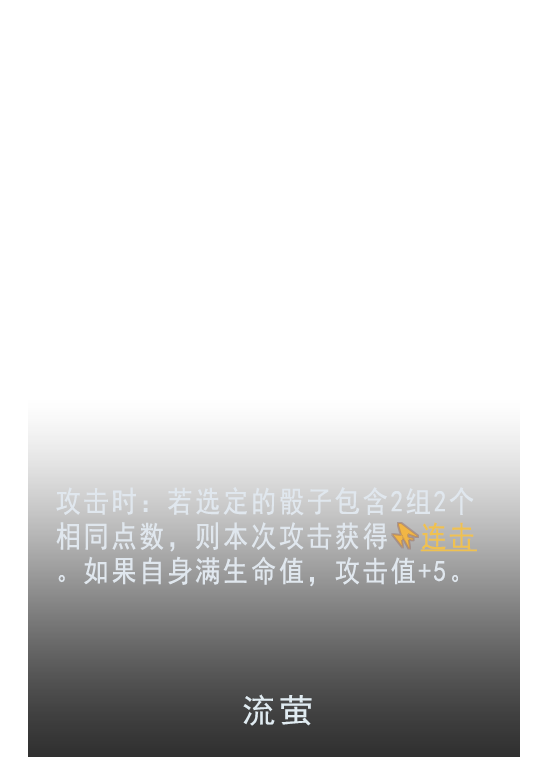
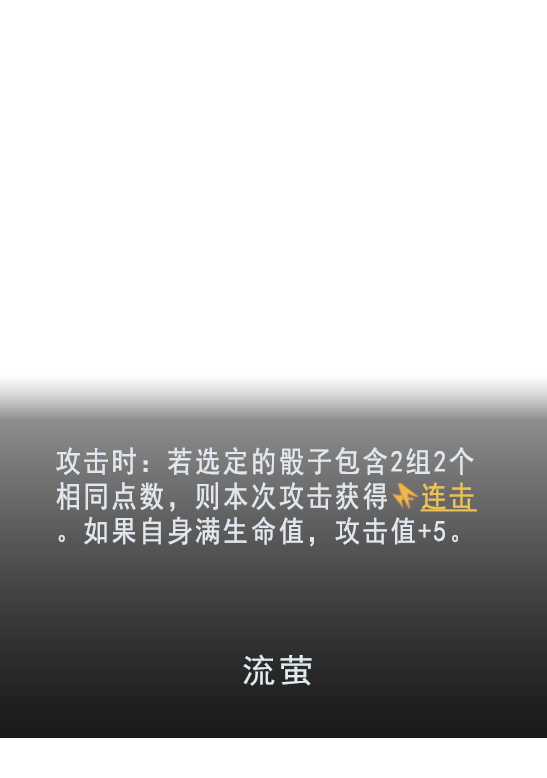
可用版本

diff --git a/gemini.html b/gemini.html
@@ -73,10 +73,15 @@
         const characterTexture = textureLoader.load('流萤.png');
         const frameMaskTexture = textureLoader.load('card-border-mask.png');
         const stencilMaskTexture = textureLoader.load('stencil-mask.png');
+        const descriptionTexture = textureLoader.load('描述.png');
+        const valueTexture = textureLoader.load('数值.png');
         bgTexture.colorSpace = THREE.SRGBColorSpace;
         characterTexture.colorSpace = THREE.SRGBColorSpace;
+        characterTexture.premultiplyAlpha = true;
         frameMaskTexture.colorSpace = THREE.NoColorSpace;
         stencilMaskTexture.colorSpace = THREE.NoColorSpace;
+        descriptionTexture.colorSpace = THREE.SRGBColorSpace;
+        valueTexture.colorSpace = THREE.SRGBColorSpace;
 
         const createFrameGradientTexture = () => {
             const canvas = document.createElement('canvas');
@@ -125,7 +130,7 @@
             texture.colorSpace = THREE.SRGBColorSpace;
             texture.wrapS = THREE.RepeatWrapping;
             texture.wrapT = THREE.RepeatWrapping;
-            texture.repeat.set(30, 40);
+            texture.repeat.set(20, 30);
             return texture;
         };
 
@@ -138,7 +143,7 @@
 
         const characterGroup = new THREE.Group();
         cardGroup.add(characterGroup);
-        characterGroup.scale.setScalar(1.06);
+        characterGroup.scale.setScalar(1.10);
 
         const characterPivot = new THREE.Group();
         characterGroup.add(characterPivot);
@@ -194,6 +199,9 @@
         const planeMaterial = new THREE.MeshBasicMaterial({
             map: characterTexture,
             transparent: true,
+            alphaTest: 0,
+            alphaToCoverage: true,
+            premultipliedAlpha: true,
             depthTest: true,
             depthWrite: true,
             ...stencilContentConfig // 应用模板规则
@@ -204,7 +212,9 @@
         characterPivot.add(characterPlane);
 
         characterPivot.position.y = -cardHeight * 0.5;
-        const baseTiltX = THREE.MathUtils.degToRad(10);
+        // 角色“初始前倾角”（静止时就会有的基础倾斜）
+        // 调大：更俯视；调小：更接近平视。
+        const baseTiltX = THREE.MathUtils.degToRad(7);
         characterPivot.rotation.x = baseTiltX;
 
         const frameMaterial = new THREE.ShaderMaterial({
@@ -229,7 +239,7 @@
                 varying vec2 vUv;
 
                 void main() {
-                    vec2 gradUv = (vUv / 3.0) + uBgOffset;
+                    vec2 gradUv = (vUv / 1.6) + uBgOffset;
                     gradUv = clamp(gradUv, vec2(0.0), vec2(1.0));
 
                     vec3 g1 = texture2D(uGradient, gradUv).rgb;
@@ -250,13 +260,43 @@
             `,
             transparent: true,
             depthTest: true,
-            depthWrite: true,
-            ...stencilContentConfig // 应用模板规则
+            depthWrite: false,
+            stencilWrite: false
         });
 
         const frameMesh = new THREE.Mesh(planeGeometry, frameMaterial);
         frameMesh.position.z = 0.22;
+        frameMesh.renderOrder = 120;
         cardGroup.add(frameMesh);
+
+        const descriptionMesh = new THREE.Mesh(
+            planeGeometry,
+            new THREE.MeshBasicMaterial({
+                map: descriptionTexture,
+                transparent: true,
+                depthTest: false,
+                depthWrite: false,
+                ...stencilContentConfig
+            })
+        );
+        descriptionMesh.position.z = 0.20;
+        descriptionMesh.renderOrder = 110;
+        cardGroup.add(descriptionMesh);
+
+        const valueMesh = new THREE.Mesh(
+            planeGeometry,
+            new THREE.MeshBasicMaterial({
+                map: valueTexture,
+                transparent: true,
+                depthTest: false,
+                depthWrite: false,
+                ...stencilContentConfig
+            })
+        );
+        valueMesh.position.z = 0.24;
+        valueMesh.scale.set(0.95, 0.95, 1);
+        valueMesh.renderOrder = 121;
+        cardGroup.add(valueMesh);
 
         const glareMesh = new THREE.Mesh(
             planeGeometry,
@@ -271,7 +311,7 @@
             })
         );
         glareMesh.position.z = 0.42;
-        glareMesh.renderOrder = 100;
+        glareMesh.renderOrder = 130;
         cardGroup.add(glareMesh);
 
         let targetCardRotX = 0;
@@ -284,9 +324,14 @@
             const nx = ((event.clientX - rect.left) / rect.width) * 2 - 1;
             const ny = ((event.clientY - rect.top) / rect.height) * 2 - 1;
 
+            // 左右交互方向映射（-nx 为反向，nx 为同向）
+            const interactionX = -nx;
+
+            // 鼠标驱动卡片旋转的“最大倾角”在这里的 10（度）
+            // X 对应上下，Y 对应左右
             targetCardRotX = THREE.MathUtils.degToRad(-ny * 10);
-            targetCardRotY = THREE.MathUtils.degToRad(nx * 10);
-            targetNX = nx;
+            targetCardRotY = THREE.MathUtils.degToRad(interactionX * 10);
+            targetNX = interactionX;
             targetNY = ny;
         });
 
@@ -306,9 +351,13 @@
         });
 
         const clock = new THREE.Clock();
+        // 与上面鼠标旋转保持一致：用于把当前旋转归一化到 [-1, 1]
+        // 若你把 mousemove 中的 10 改了，这里建议同步改成同样角度。
+        const maxCardTiltRad = THREE.MathUtils.degToRad(10);
         function animate() {
             const dt = Math.min(clock.getDelta(), 0.05);
             const smoothing = 1 - Math.exp(-8 * dt);
+            const charSmoothing = 1 - Math.exp(-12 * dt);
 
             cardGroup.rotation.x += (targetCardRotX - cardGroup.rotation.x) * smoothing;
             cardGroup.rotation.y += (targetCardRotY - cardGroup.rotation.y) * smoothing;
@@ -318,15 +367,35 @@
             bgMesh.position.x += (bgTargetX - bgMesh.position.x) * smoothing;
             bgMesh.position.y += (bgTargetY - bgMesh.position.y) * smoothing;
 
-            const charTargetX = targetNX * 0.2;
-            const charTargetY = -targetNY * 0.14;
-            characterGroup.position.x += (charTargetX - characterGroup.position.x) * smoothing;
-            characterGroup.position.y += (charTargetY - characterGroup.position.y) * smoothing;
+            // 当前旋转因子（-1~1），用于“旋转时角色平移”增强景深
+            const rotFactorX = THREE.MathUtils.clamp(cardGroup.rotation.y / maxCardTiltRad, -1, 1);
+            const rotFactorY = THREE.MathUtils.clamp(cardGroup.rotation.x / maxCardTiltRad, -1, 1);
+            // 角色平移强度：
+            // 0.2/0.14 = 鼠标视差基础强度
+            // 0.12/0.08 = 由旋转额外带动的平移强度（越大越有“深度拉扯感”）
+            const charTargetX = (targetNX * 0.14) + (rotFactorX * 0.08);
+            const charTargetY = (targetNY * 0.07) - (rotFactorY * 0.035);
+            // 前后位移强度（Z 轴）：越大越“冲出屏幕”
+            const charTargetZ = (Math.abs(rotFactorX) + Math.abs(rotFactorY)) * 0;
+            characterGroup.position.x += (charTargetX - characterGroup.position.x) * charSmoothing;
+            characterGroup.position.y += (charTargetY - characterGroup.position.y) * charSmoothing;
+            characterGroup.position.z += (charTargetZ - characterGroup.position.z) * charSmoothing;
+
+            const charRotTargetX = cardGroup.rotation.x * 0.1;
+            const charRotTargetY = cardGroup.rotation.y * 0.2;
+            characterGroup.rotation.x += (charRotTargetX - characterGroup.rotation.x) * charSmoothing;
+            characterGroup.rotation.y += (charRotTargetY - characterGroup.rotation.y) * charSmoothing;
 
             const frameTargetX = targetNX * 0.18;
             const frameTargetY = -targetNY * 0.12;
             frameMesh.position.x += (frameTargetX - frameMesh.position.x) * smoothing;
             frameMesh.position.y += (frameTargetY - frameMesh.position.y) * smoothing;
+
+            descriptionMesh.position.x = frameMesh.position.x;
+            descriptionMesh.position.y = frameMesh.position.y - 0.1;
+
+            valueMesh.position.x = frameMesh.position.x;
+            valueMesh.position.y = frameMesh.position.y;
 
             // 【核心修改 4】遮罩必须与物理边框的视差移动完全同步！
             stencilMesh.position.x = frameMesh.position.x;
